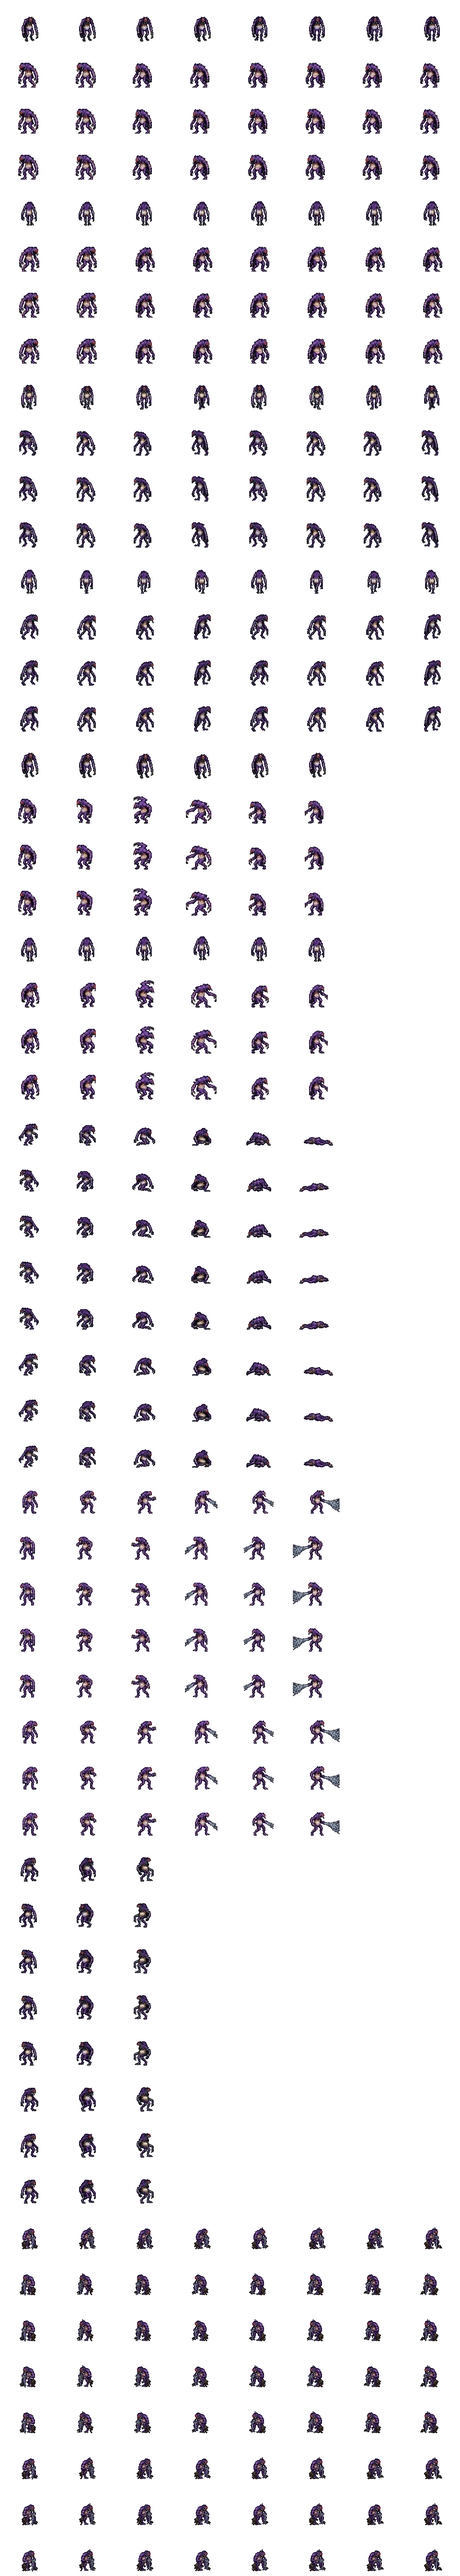
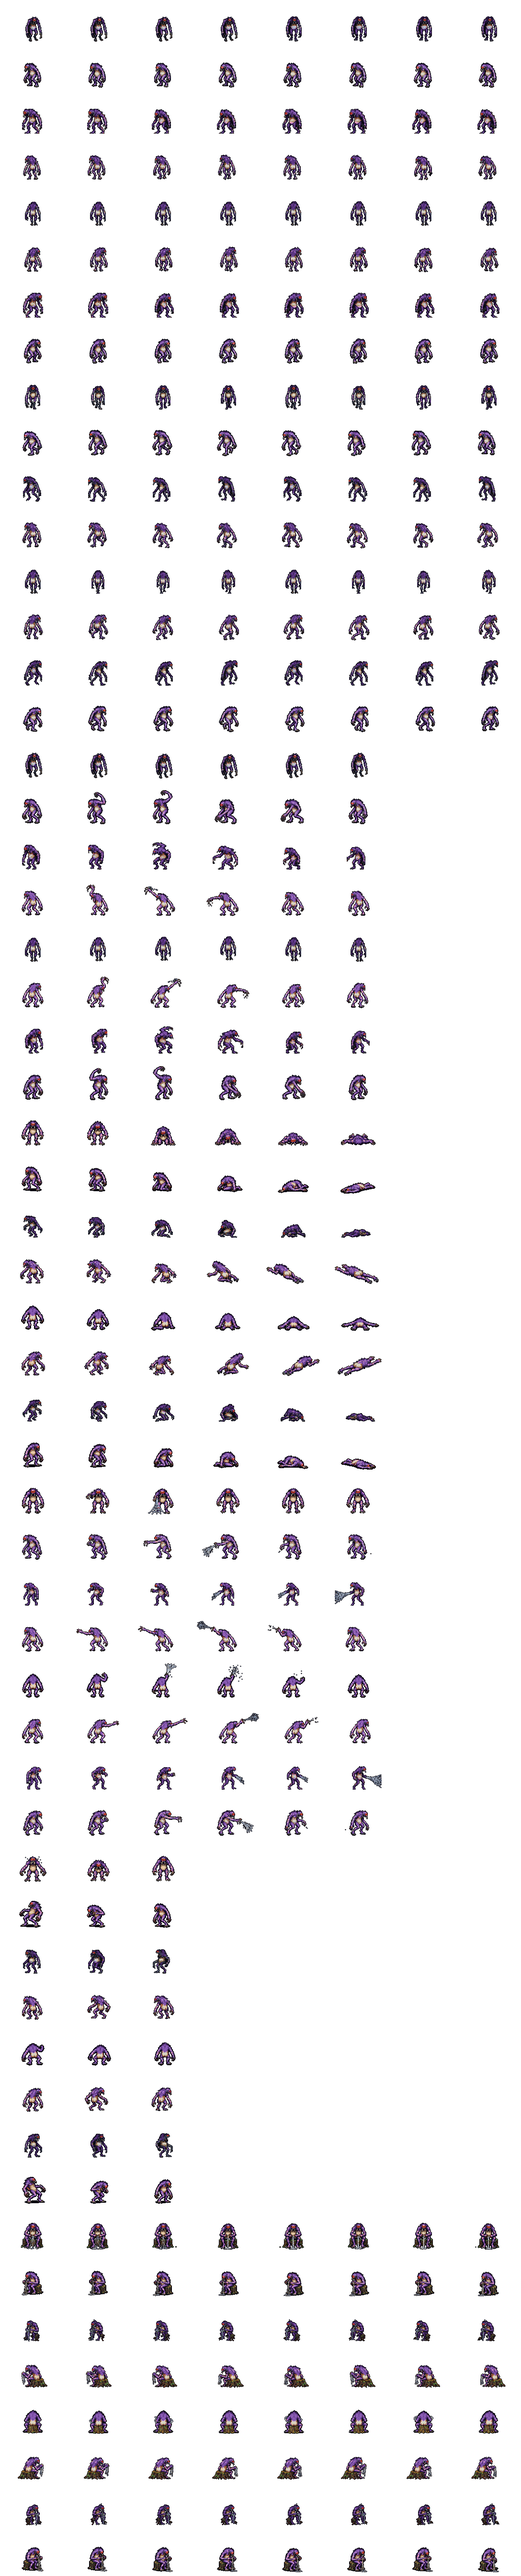
The ettercap in all eight facings: the art desk's ART-39 cut onto ettercap_p2 (SE and NE every row, SW and NW mirrored; S and N their web shot, hit, death and braid)
tools/ettercap-sheet.py art39: nine pages on near-black with lavender labels, cut by sheetrows with `chan` 24; K by height
(SE and NE Idle against the side's and the front's or back's 52/52/50, later pages by Claw 1, Web Shot 1 or Death 1, S and N by
Death 1; 3.57 to 6.87, the desk's pages differ that much); placed as the page drew them against their numbers and the row's
ground; through `fit` (the hide's purple). The cell 136 wide since (AX 68, was 120/60): NE Web Shot 4's net reaches 65 px past
the torso; every kept frame anchor for anchor as before. SE Web Shot 4's net, loose threads past the midpoint, all its own (FIX39).
Idle frame 1 stands 52 SE, 51 NE. The show bench's `braid 0` FAIL is the old sheet's too (the show never plays the idle it keeps
before it sees you; proved by a swap). The cutter reads _src from the main checkout in a worktree.
On Griz's "spin up an one-at-a-time art cutter that goes until we're out" (10-22, to the lanes desk).

diff --git a/deep16/data/sprites.js b/deep16/data/sprites.js
@@ -3537,78 +3537,78 @@
 }
 },
 "ettercap_p2": {
-"image": "art/ettercap_p2.png?v=47e37859b9",
-"fw": 120,
+"image": "art/ettercap_p2.png?v=9569e4855f",
+"fw": 136,
 "fh": 96,
-"ax": 60,
+"ax": 68,
 "ay": 86,
 "top": 52,
 "anims": {
 "idle": {
 "y": 0,
-"fw": 120,
+"fw": 136,
 "fh": 96,
-"ax": 60,
+"ax": 68,
 "ay": 86,
 "frames": 8,
 "fps": 4
 },
 "walk": {
 "y": 768,
-"fw": 120,
+"fw": 136,
 "fh": 96,
-"ax": 60,
+"ax": 68,
 "ay": 86,
 "frames": 8,
 "fps": 8
 },
 "attack": {
 "y": 1536,
-"fw": 120,
+"fw": 136,
 "fh": 96,
-"ax": 60,
+"ax": 68,
 "ay": 86,
 "frames": 6,
 "fps": 10
 },
 "hurt": {
 "y": 2304,
-"fw": 120,
+"fw": 136,
 "fh": 96,
-"ax": 60,
+"ax": 68,
 "ay": 86,
 "frames": 6,
 "fps": 8
 },
 "cast": {
 "y": 3072,
-"fw": 120,
+"fw": 136,
 "fh": 96,
-"ax": 60,
+"ax": 68,
 "ay": 86,
 "frames": 6,
 "fps": 9
 },
 "flinch": {
 "y": 3840,
-"fw": 120,
+"fw": 136,
 "fh": 96,
-"ax": 60,
+"ax": 68,
 "ay": 86,
 "frames": 3,
 "fps": 10
 },
 "braid": {
 "y": 4608,
-"fw": 120,
+"fw": 136,
 "fh": 96,
-"ax": 60,
+"ax": 68,
 "ay": 86,
 "frames": 8,
 "fps": 5
 }
 },
-"source": "generated by Griz (2026-09-29, two sheets; the braiding idle 2026-09-30), cut and snapped by tools/ettercap-sheet.py"
+"source": "generated by Griz (2026-09-29, two sheets; the braiding idle 2026-09-30), cut and snapped by tools/ettercap-sheet.py; SE and NE every row and S and N their web shot, hit, death and braid drawn by the art desk (ART-39, 10-22)"
 },
 "ettin_p1": {
 "image": "art/ettin_p1.png?v=16ec516b88",

diff --git a/deep16/index.html b/deep16/index.html
@@ -77,7 +77,7 @@
 <script src="js/art.js?v=e1ce4cf012"></script>
 <script src="data/cavern.js?v=647c1a184a"></script>
 <script src="data/maps.js?v=971b4fe9e6"></script>
-<script src="data/sprites.js?v=75ead34a24"></script>
+<script src="data/sprites.js?v=9fec0d7a57"></script>
 <script src="js/sprites.js?v=132505c283"></script>
 <script src="js/save.js?v=1191d6f29a"></script>
 <script src="data/spells.js?v=b819b6e987"></script>

diff --git a/tools/ettercap-sheet.py b/tools/ettercap-sheet.py
@@ -30,9 +30,13 @@ import importlib.util
 spec = importlib.util.spec_from_file_location('pix', os.path.join(ROOT, 'tools', 'pixelate.py'))
 pix = importlib.util.module_from_spec(spec); spec.loader.exec_module(pix)
 
-SRC = os.path.join(ROOT, 'deep16', '_src')
+SRC = os.path.join(ROOT, 'deep16', '_src')                 # his sheets live in the main checkout (_src is not in git): a worktree reads them there
+if not os.path.isdir(SRC):
+    import subprocess
+    _common = subprocess.run(['git', '-C', ROOT, 'rev-parse', '--git-common-dir'], capture_output=True, text=True).stdout.strip()
+    SRC = os.path.join(os.path.dirname(os.path.abspath(os.path.join(ROOT, _common))), 'deep16', '_src')
 NAME = 'ettercap_p2'
-FW, FH, AX, AY = 120, 96, 60, 86
+FW, FH, AX, AY = 136, 96, 68, 86         # (120 wide and AX 60 until 10-22: ART-39's NE web throw reaches 65 px past the torso)
 H = 52                                  # standing, in px: a man's height, hunched (the heroes stand ~50)
 
 
@@ -53,6 +57,109 @@ B1 = {'front': ((20, 110, 320, 305), 2), 'wfront': ((340, 110, 910, 305), 4), 'w
       'walk': ((20, 350, 720, 555), 4), 'hit': ((20, 595, 470, 785), 3), 'death': ((490, 595, 1525, 785), 6)}
 B2 = {'claw': ((782, 103, 1515, 263), 6), 'recov': ((1145, 535, 1515, 668), 3),
       'web': ((20, 330, 765, 478), 6, [105, 215, 348, 456, 576])}   # (frame 4's web tip overlaps frame 5's claws)
+
+
+# The five views (10-22, the monster cutter seat's second run): the art desk's ART-39 in deep16/_src/ettercap/ART-39/ (sorted out of Fresh by
+# _src/art-desk/sort-delivery.py; its papers in _src/art-desk/received-2026-10-22-ART-39-ettercap-FINAL-SHEETS/): HEAD 1 SE on four pages
+# (Idle 8, Walk 8; Claw 6; Web Shot 6; Hit 3, Death 6, Braid 8), HEAD 2 NE on three, HEAD 3 S and HEAD 5 N their Web Shot, Hit, Death and
+# Braid. On near-black with lavender labels: cut by tools/sheetrows.py with `chan` (any channel 24 off the page's ground; the default grey
+# test takes that ground for figure), each row's name at its left, its numbers under it; boxes read off the pages. SE and SW, NE and NW take
+# every row; S and N their cast, flinch, hurt and braid (Griz's sheets keep their idle, walk and claw, as the art desk's brief says).
+# Scale by height: this sheet stands 52 side-on and from the front, 50 from behind (H, every group by its standing height), so each view's
+# standing frame meets its own: SE and NE their Idle against the side and the front or back (52, 51); a later page by its first standing
+# frame (Claw 1, Web Shot 1, Death 1) against its view's Idle 1; S and N by Death 1 against the front's and the back's idles. Placed as the
+# page drew them: each row's first frame with its torso on AX and its lowest row on AY, the rest against their numbers and the row's ground
+# (the web thrown, the fall, the stump all where the page put them). Through `fit` (the hide's purple kept) as Griz's sheets are.
+ART39 = {
+  'H1P1': dict(file='ART-39_HEAD-1_PAGE-1.png', W=1881, text=[(27, 89, 145, 132), (26, 454, 150, 507)],
+               rows=[('idle', (0, 0, 1881, 408), (379, 408), 8), ('walk', (0, 409, 1881, 789), (760, 789), 8)]),
+  'H1P2': dict(file='ART-39_HEAD-1_PAGE-2.png', W=2172, text=[(67, 45, 228, 105)], rows=[('attack', (0, 0, 2172, 645), (599, 645), 6)]),
+  'H1P3': dict(file='ART-39_HEAD-1_PAGE-3.png', W=2172, text=[(27, 185, 219, 229)], rows=[('cast', (0, 0, 2172, 582), (544, 582), 6)]),
+  'H1P4': dict(file='ART-39_HEAD-1_PAGE-4.png', W=1536, text=[(50, 49, 127, 93), (50, 381, 181, 423), (51, 688, 172, 732)],
+               rows=[('flinch', (0, 0, 1536, 369), (343, 369), 3), ('hurt', (0, 370, 1536, 687), (659, 687), 6), ('braid', (0, 688, 1536, 988), (960, 988), 8)]),
+  'H2P1': dict(file='ART-39_HEAD-2_PAGE-1.png', W=2172, text=[(25, 156, 162, 199), (26, 481, 198, 537)],
+               rows=[('idle', (0, 0, 2172, 345), (320, 345), 8), ('walk', (0, 346, 2172, 677), (652, 677), 8)]),
+  'H2P2': dict(file='ART-39_HEAD-2_PAGE-2.png', W=2172, text=[(23, 166, 178, 211), (23, 501, 231, 544)],
+               rows=[('attack', (0, 0, 2172, 353), (327, 353), 6), ('cast', (0, 354, 2172, 701), (672, 701), 6)]),   # (Web Shot 4's net tops out at y 354)
+  'H2P3': dict(file='ART-39_HEAD-2_PAGE-3.png', W=2172, text=[(26, 119, 146, 159), (26, 332, 189, 373), (27, 557, 220, 611)],
+               rows=[('flinch', (0, 0, 2172, 249), (225, 249), 3), ('hurt', (0, 250, 2172, 480), (456, 480), 6), ('braid', (0, 481, 2172, 711), (686, 711), 8)]),
+  'H3P1': dict(file='ART-39_HEAD-3_PAGE-1.png', W=1536, text=[(13, 100, 177, 135), (13, 325, 231, 375), (13, 574, 146, 610), (13, 789, 131, 824)],
+               rows=[('cast', (0, 0, 1536, 252), (229, 252), 6), ('flinch', (0, 253, 1536, 500), (477, 500), 3), ('hurt', (0, 501, 1536, 731), (709, 731), 6),
+                     ('braid', (0, 732, 1536, 990), (967, 990), 8)]),
+  'H5P1': dict(file='ART-39_HEAD-5_PAGE-1.png', W=1536, text=[(23, 92, 122, 159), (25, 354, 98, 390), (24, 555, 137, 591), (24, 766, 124, 802)],
+               rows=[('cast', (0, 0, 1536, 288), (262, 288), 6), ('flinch', (0, 289, 1536, 519), (493, 519), 3), ('hurt', (0, 520, 1536, 746), (714, 746), 6),
+                     ('braid', (0, 747, 1536, 991), (964, 991), 8)]),
+}
+VIEWS39 = {'SE': ('H1P1', 'H1P2', 'H1P3', 'H1P4'), 'NE': ('H2P1', 'H2P2', 'H2P3'), 'S': ('H3P1',), 'N': ('H5P1',)}
+CHAN39 = 24
+FIX39 = {'H1P3': {'cast': [((1290, 330, 1535, 510), '4')]}}    # SE Web Shot 4's net, loose threads past the midpoint to 5's number: all 4's
+
+
+def art39(idle_h):
+    """-> {view: {anim: [FH x FW frames]}} from ART-39's pages; idle_h the game-size standing heights {'side':, 'S':, 'N':}"""
+    spec = importlib.util.spec_from_file_location('sheetrows', os.path.join(ROOT, 'tools', 'sheetrows.py'))
+    SR = importlib.util.module_from_spec(spec); spec.loader.exec_module(SR)
+    tall = lambda a: int(np.ptp(np.where(a[..., 3].any(axis=1))[0]) + 1)
+    def body(im):                                        # the page frame's height: its biggest piece filled (a web shred or a strand left out)
+        m = np.asarray(im)[..., 3] > 0
+        lab, n = ndimage.label(m, structure=np.ones((3, 3)))
+        m = lab == 1 + int(np.argmax(ndimage.sum(m, lab, range(1, n + 1))))
+        ys = np.where(m.any(axis=1))[0]
+        return float(ys[-1] - ys[0] + 1)
+    cuts = {}
+    for L, s in ART39.items():
+        path = os.path.join(SRC, 'ettercap', 'ART-39', s['file'])
+        a = np.asarray(Image.open(path).convert('RGB')).astype(np.int32)
+        sp = dict(text=s['text'] + [(0, l0 - 3, s['W'], l1 + 4) for _, _, (l0, l1), _ in s['rows']],
+                  rows=[(r, b, l, [str(i + 1) for i in range(n)]) for r, b, l, n in s['rows']], chan=CHAN39)
+        got = SR.cut_sheet(path, sp, fix=FIX39.get(L), tag=L)
+        lx = {r: SR.label_xs(a, b[0], b[2], l[0], l[1]) for r, b, l, _ in s['rows']}
+        cuts[L] = {r: [(im, box, lx[r][i]) for i, (_, im, box) in enumerate(frs)] for r, frs in got.items()}
+
+    def k_for(ims, target):                              # page px a game px: the fitted frames' median height meets target
+        lo, hi = 1.5, 16.0
+        for _ in range(24):
+            k = (lo + hi) / 2
+            got = float(np.median([tall(fit_pad(im, k)) for im in ims]))
+            lo, hi = (k, hi) if got > target else (lo, k)
+        return (lo + hi) / 2
+    K = {}
+    for v, ls in VIEWS39.items():
+        if v in ('SE', 'NE'):
+            p1 = ls[0]
+            K[p1] = k_for([im for im, _, _ in cuts[p1]['idle']], (idle_h['side'] + idle_h['S' if v == 'SE' else 'N']) / 2)
+            ref = float(np.median([body(im) for im, _, _ in cuts[p1]['idle'][:1]]))
+            for L in ls[1:]:
+                first = cuts[L]['hurt'][0][0] if 'hurt' in cuts[L] else next(iter(cuts[L].values()))[0][0]
+                K[L] = K[p1] * body(first) / ref
+        else:
+            K[ls[0]] = k_for([cuts[ls[0]]['hurt'][0][0]], idle_h[v])
+    print('  ART-39 K: ' + ', '.join('%s %.2f' % (L, K[L]) for L in ART39) +
+          '; standing %.0f side-on, %.0f from the front, %.0f from behind' % (idle_h['side'], idle_h['S'], idle_h['N']))
+    out, lost = {}, []
+    for v, ls in VIEWS39.items():
+        out[v] = {}
+        for L in ls:
+            k = K[L]
+            for an, frs in cuts[L].items():
+                fits = [fit_pad(im, k) for im, _, _ in frs]
+                rel = [((box[0] - x) / k, box[3] / k) for _, box, x in frs]     # (each frame's left against its number, its foot on the row's ground)
+                tx = torso_x(fits[0])
+                row = []
+                for a, (rx, rb) in zip(fits, rel):
+                    ox = int(round(AX - tx + (rx - rel[0][0])))
+                    oy = int(round(AY + (rb - rel[0][1]))) - (np.where(a[..., 3].any(axis=1))[0][-1])
+                    fr = np.zeros((FH, FW, 4), dtype=np.uint8)
+                    h, w = a.shape[:2]
+                    y0, x0, y1, x1 = max(0, oy), max(0, ox), min(FH, oy + h), min(FW, ox + w)
+                    fr[y0:y1, x0:x1] = a[y0 - oy:y1 - oy, x0 - ox:x1 - ox]
+                    if (fr[..., 3] > 0).sum() < (a[..., 3] > 0).sum():
+                        lost.append('%s %s %d (rows %d..%d cols %d..%d)' % (L, an, len(row) + 1, oy, oy + h - 1, ox, ox + w - 1))
+                    row.append(fr)
+                out[v][an] = row
+    if lost:
+        raise SystemExit('ART-39 cut off at the frame edge: ' + '; '.join(lost))
+    return out
 
 
 def frames_in(sheet, bg, band, n, splits=None):
@@ -226,10 +333,15 @@ def build():
              'hurt': death_r, 'flinch': hit_r, 'cast': web_r, 'braid': braid_r}
     north = {'idle': [fN] * 4 + [breathe(fN)] * 4, 'walk': wback * 2, 'attack': dip(fN, -1),
              'hurt': mirror(death_r), 'flinch': mirror(hit_r), 'cast': mirror(web_r), 'braid': mirror(braid_r)}
+    tall = lambda a: int(np.ptp(np.where(a[..., 3].any(axis=1))[0]) + 1)
+    d39 = art39({'side': tall(idle_r[0]), 'S': tall(front[0]), 'N': tall(fN)})     # ART-39 (10-22): the five views
+    get = lambda v, a, base: d39[v].get(a, base)
     frames = {a: [] for a in side}
     for f in range(8):                                   # facings S, SW, W, NW, N, NE, E, SE
         for a in frames:
-            frames[a].append(south[a] if f == 0 else north[a] if f == 4 else side[a] if f in (5, 6, 7) else mirror(side[a]))
+            frames[a].append(get('S', a, south[a]) if f == 0 else get('N', a, north[a]) if f == 4 else side[a] if f == 6 else
+                             get('SE', a, side[a]) if f == 7 else get('NE', a, side[a]) if f == 5 else
+                             mirror(get('SE', a, side[a])) if f == 1 else mirror(get('NE', a, side[a])) if f == 3 else mirror(side[a]))
     return frames
 
 
@@ -260,5 +372,6 @@ if __name__ == '__main__':
     meta = json.load(open(meta_p))
     for a, fps in (('idle', 4), ('walk', 8), ('attack', 10), ('hurt', 8), ('flinch', 10), ('cast', 9), ('braid', 5)):
         meta['anims'][a]['fps'] = fps
-    meta['source'] = 'generated by Griz (2026-09-29, two sheets; the braiding idle 2026-09-30), cut and snapped by tools/ettercap-sheet.py'
+    meta['source'] = ('generated by Griz (2026-09-29, two sheets; the braiding idle 2026-09-30), cut and snapped by tools/ettercap-sheet.py; '
+                      'SE and NE every row and S and N their web shot, hit, death and braid drawn by the art desk (ART-39, 10-22)')
     json.dump(meta, open(meta_p, 'w'), indent=1)
